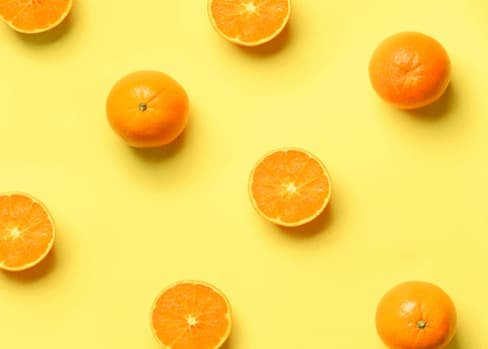
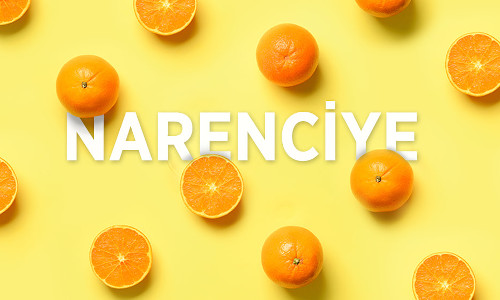
citrus

diff --git a/components/pages/Citrus/CitContainer/CitContainer.js b/components/pages/Citrus/CitContainer/CitContainer.js
@@ -1,0 +1,99 @@
+import React, {Component} from 'react';
+import axios from "axios";
+
+import Product from "../../Vegetable/Product/Product";
+
+class CitContainer extends Component {
+    constructor(props) {
+        super(props);
+        this.state = {
+            products: []
+        }
+    }
+
+    componentDidMount() {
+        axios.get("https://admin.ergidatarim.com.tr/products?category=citrus", {
+            headers: {
+                Authorization: `Bearer eyJhbGciOiJIUzI1NiIsInR5cCI6IkpXVCJ9.eyJpZCI6MSwiaWF0IjoxNTY4MTQyNjQzLCJleHAiOjE1NzA3MzQ2NDN9.tqzTZksZT1lCQ38OSPVZd-VRIuja6VXrGahasTQUI7c`,
+            }
+        }).then(res => {
+            const products = res.data;
+            this.setState({products})
+        })
+    }
+
+    render() {
+        return (
+            <>
+                <div className="container-fluid px-0 py-3 m-0">
+                    <div className="container p-0">
+                        <div className="row ProductRow">
+                            {this.state.products.map((product, i) => {
+                                return product.color === 'red' ? (
+                                    <div className="col-12 col-sm-6 col-md-4 col-lg-3 pr-3 pb-3 pl-3">
+                                        <Product key={i}
+                                                 name={product.name}
+                                                 nameEn={product.name_en}
+                                                 photo={`https://admin.ergidatarim.com.tr/${product.photo.url}`}
+                                                 bgColor="rgba(255, 0, 0, .4)"
+                                                 titleColor="rgba(139, 0, 0)"/>
+                                    </div>) : null
+                            })}
+                        </div>
+                    </div>
+                </div>
+                <div className="container-fluid px-0 py-3 m-0" style={{background: 'rgb(253,245,230)'}}>
+                    <div className="container p-0">
+                        <div className="row ProductRow">
+                            {this.state.products.map((product, i) => {
+                                return product.color === 'yellow' ? (
+                                    <div className="col-12 col-sm-6 col-md-4 col-lg-3 pr-3 pb-3 pl-3">
+                                        <Product key={i}
+                                                 name={product.name}
+                                                 nameEn={product.name_en}
+                                                 photo={`https://admin.ergidatarim.com.tr/${product.photo.url}`}
+                                                 bgColor="rgba(204,204,0, .4)"
+                                                 titleColor="rgba(153, 153, 0)"/>
+                                    </div>) : null
+                            })}
+                        </div>
+                    </div>
+                </div>
+                <div className="container-fluid px-0 py-3 m-0">
+                    <div className="container p-0">
+                        <div className="row ProductRow">
+                            {this.state.products.map((product, i) => {
+                                return product.color === 'white' ? (
+                                    <div className="col-12 col-sm-6 col-md-4 col-lg-3 pr-3 pb-3 pl-3">
+                                        <Product key={i}
+                                                 name={product.name}
+                                                 nameEn={product.name_en}
+                                                 photo={`https://admin.ergidatarim.com.tr/${product.photo.url}`}
+                                                 bgColor="rgba(50,130,170, .4)" titleColor="rgba(225,222,173)"/>
+                                    </div>) : null
+                            })}
+                        </div>
+                    </div>
+                </div>
+                <div className="container-fluid px-0 py-3 m-0" style={{background: 'rgb(253,245,230)'}}>
+                    <div className="container p-0">
+                        <div className="row ProductRow">
+                            {this.state.products.map((product, i) => {
+                                return product.color === 'green' ? (
+                                    <div className="col-12 col-sm-6 col-md-4 col-lg-3 pr-3 pb-3 pl-3">
+                                        <Product key={i}
+                                                 name={product.name}
+                                                 nameEn={product.name_en}
+                                                 photo={`https://admin.ergidatarim.com.tr/${product.photo.url}`}
+                                                 bgColor="rgba(50,205,50, .4)" titleColor="rgba(0,100,0)"/>
+                                    </div>) : null
+                            })}
+                        </div>
+                    </div>
+                </div>
+            </>
+        );
+    }
+}
+
+export default CitContainer;

diff --git a/components/pages/Citrus/index.js b/components/pages/Citrus/index.js
@@ -1,19 +1,21 @@
 import React from 'react';
 import Hero from "../Homepage/Hero/Hero";
 import {i18n} from "../../../i18n";
+import CitContainer from "./CitContainer/CitContainer";
 
 const CitrusPageIndex = () => {
     let hero;
     if (i18n.language !== 'en') {
-        hero = <Hero bigImage="../../../../static/images/sebze-hero.jpg"
-                     mobImage="../../../../static/images/sebze-hero-mob.jpg" />
+        hero = <Hero bigImage="../../../../static/images/narenciye-hero.jpg"
+                     mobImage="../../../../static/images/narenciye-hero-mob.jpg" />
     } else {
-        hero = <Hero bigImage="../../../../static/images/sebze-hero-en.jpg"
-                     mobImage="../../../../static/images/sebze-hero-mob-en.jpg" />
+        hero = <Hero bigImage="../../../../static/images/narenciye-hero-en.jpg"
+                     mobImage="../../../../static/images/narenciye-hero-mob-en.jpg" />
     }
     return (
         <>
             {hero}
+            <CitContainer/>
         </>
     );
 };

diff --git a/next.config.js b/next.config.js
@@ -1,4 +1,3 @@
-// const withPlugins = require('next-compose-plugins');
 const withCSS = require('@zeit/next-css');
 const withImages = require('next-images');
 const optimizedImages = require('next-optimized-images');
@@ -16,12 +15,18 @@ const publicRuntimeConfig = {
 //         : 'none',
 // }));
 
+// module.exports = withPlugins([
+//     [optimizedImages, {optimizeImagesInDev: true}],
+//     [withCSS],
+//     [withImages, {
+//         localeSubpaths: typeof process.env.LOCALE_SUBPATHS === 'string'
+//             ? process.env.LOCALE_SUBPATHS
+//             : 'none',
+//     }]
+// ]);
+
 module.exports = withPlugins([
     [optimizedImages, {optimizeImagesInDev: true}],
     [withCSS],
-    [withImages, {
-        localeSubpaths: typeof process.env.LOCALE_SUBPATHS === 'string'
-            ? process.env.LOCALE_SUBPATHS
-            : 'none',
-    }]
+    [withImages]
 ]);

diff --git a/i18n.js b/i18n.js
@@ -1,20 +1,28 @@
 const NextI18Next = require('next-i18next').default;
 
-// const localeSubpathVariations = {
-//     none: {},
-//     foreign: {
-//         en: 'en',
-//     },
-//     all: {
-//         tr: 'tr',
-//         en: 'en',
-//     },
-// };
+
+const localeSubpathVariations = {
+    none: {},
+    foreign: {
+        en: 'en',
+    },
+    all: {
+        tr: 'tr',
+        en: 'en',
+    },
+};
 
 module.exports = new NextI18Next({
     defaultLanguage: 'tr',
+    fallbackLng: 'tr',
+    lng: 'tr',
     otherLanguages: ['en'],
     localeSubpaths: {
         en: 'en'
     }
 });
+
+// module.exports = new NextI18Next(({
+//     otherLanguages: ['en'],
+//     localeSubpaths: localeSubpathVariations[localeSubpaths]
+// }))

diff --git a/components/shared/Layout/Header/Header.js b/components/shared/Layout/Header/Header.js
@@ -52,6 +52,7 @@ class Header extends Component {
                                                 aria-labelledby="dropdownMenu2">
                                                 <a className="dropdown-item" href="/sebze">{this.props.t("drop1")}</a>
                                                 <a className="dropdown-item" href="/meyve">{this.props.t("drop3")}</a>
+                                                <a className="dropdown-item" href="/narenciye">{this.props.t("drop2")}</a>
                                                 {/*<a className="dropdown-item" href="/narenciye">{this.props.t("drop2")}</a>*/}
                                             </div>
                                         </div>

diff --git a/components/pages/Fruit/FruContainer/FruContainer.js b/components/pages/Fruit/FruContainer/FruContainer.js
@@ -1,5 +1,6 @@
 import React, {Component} from 'react';
 import axios from "axios";
+import {i18n} from "../../../../i18n";
 
 import Product from "../../Vegetable/Product/Product";
 
